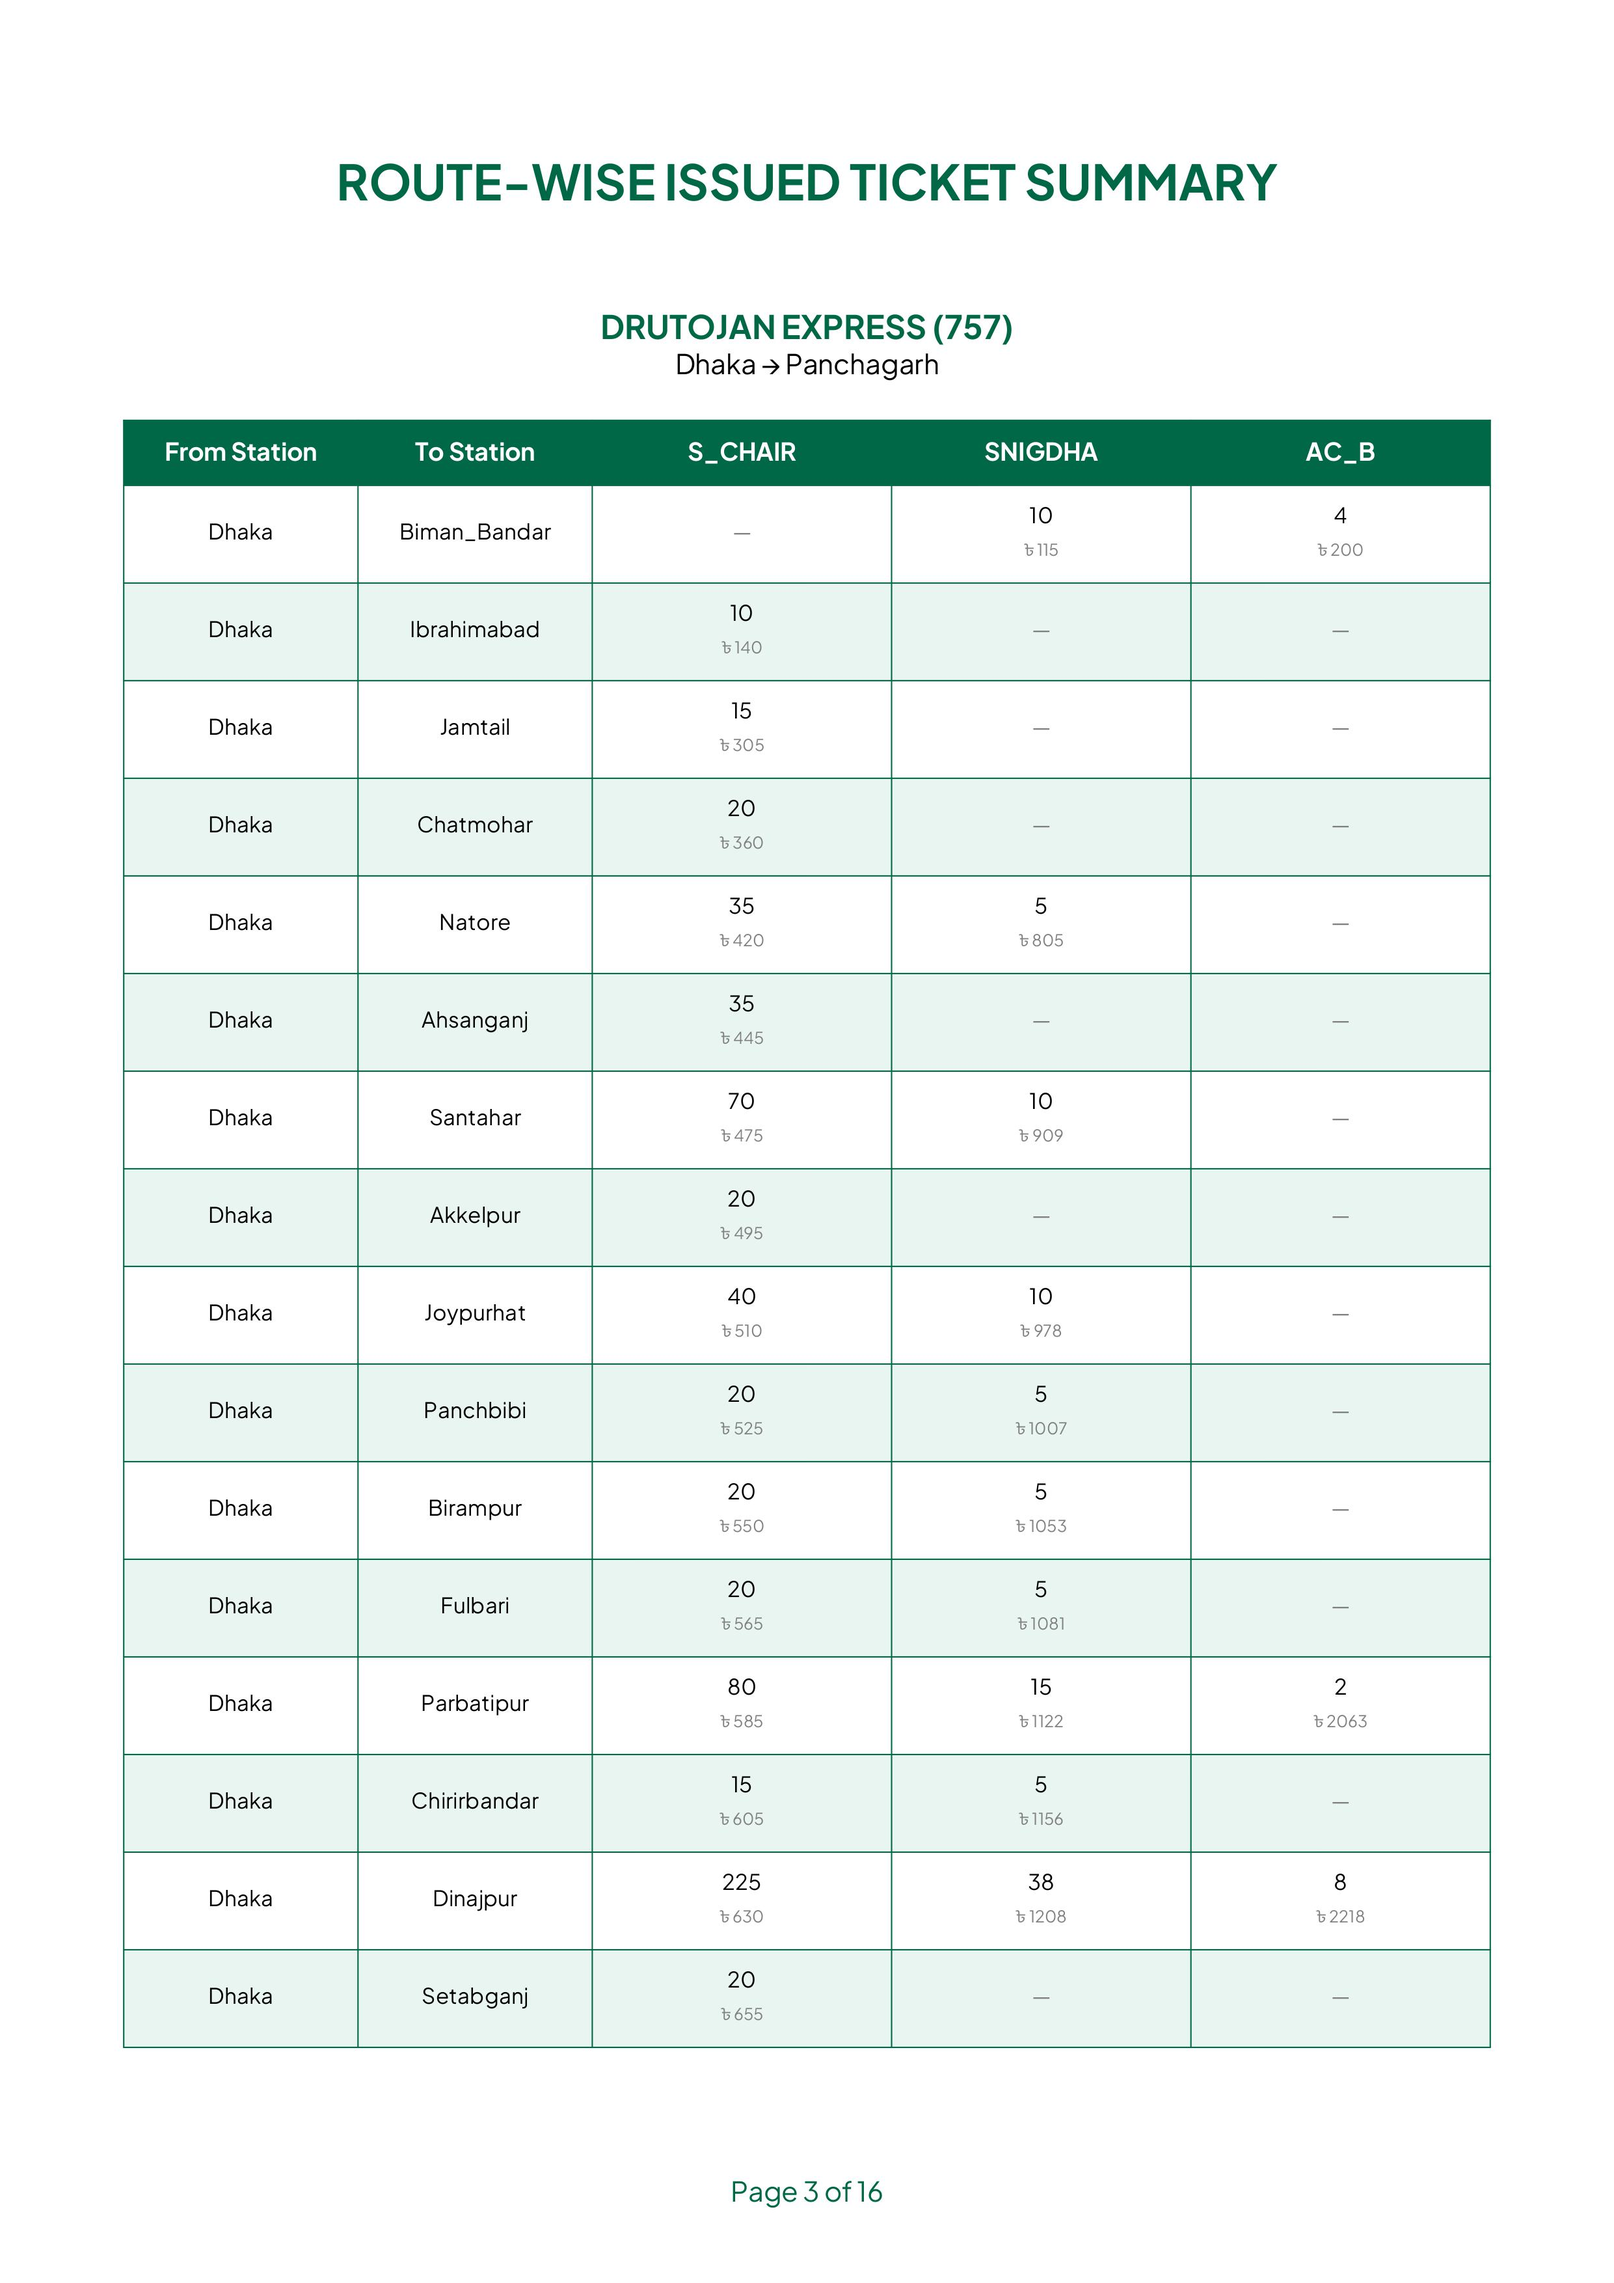
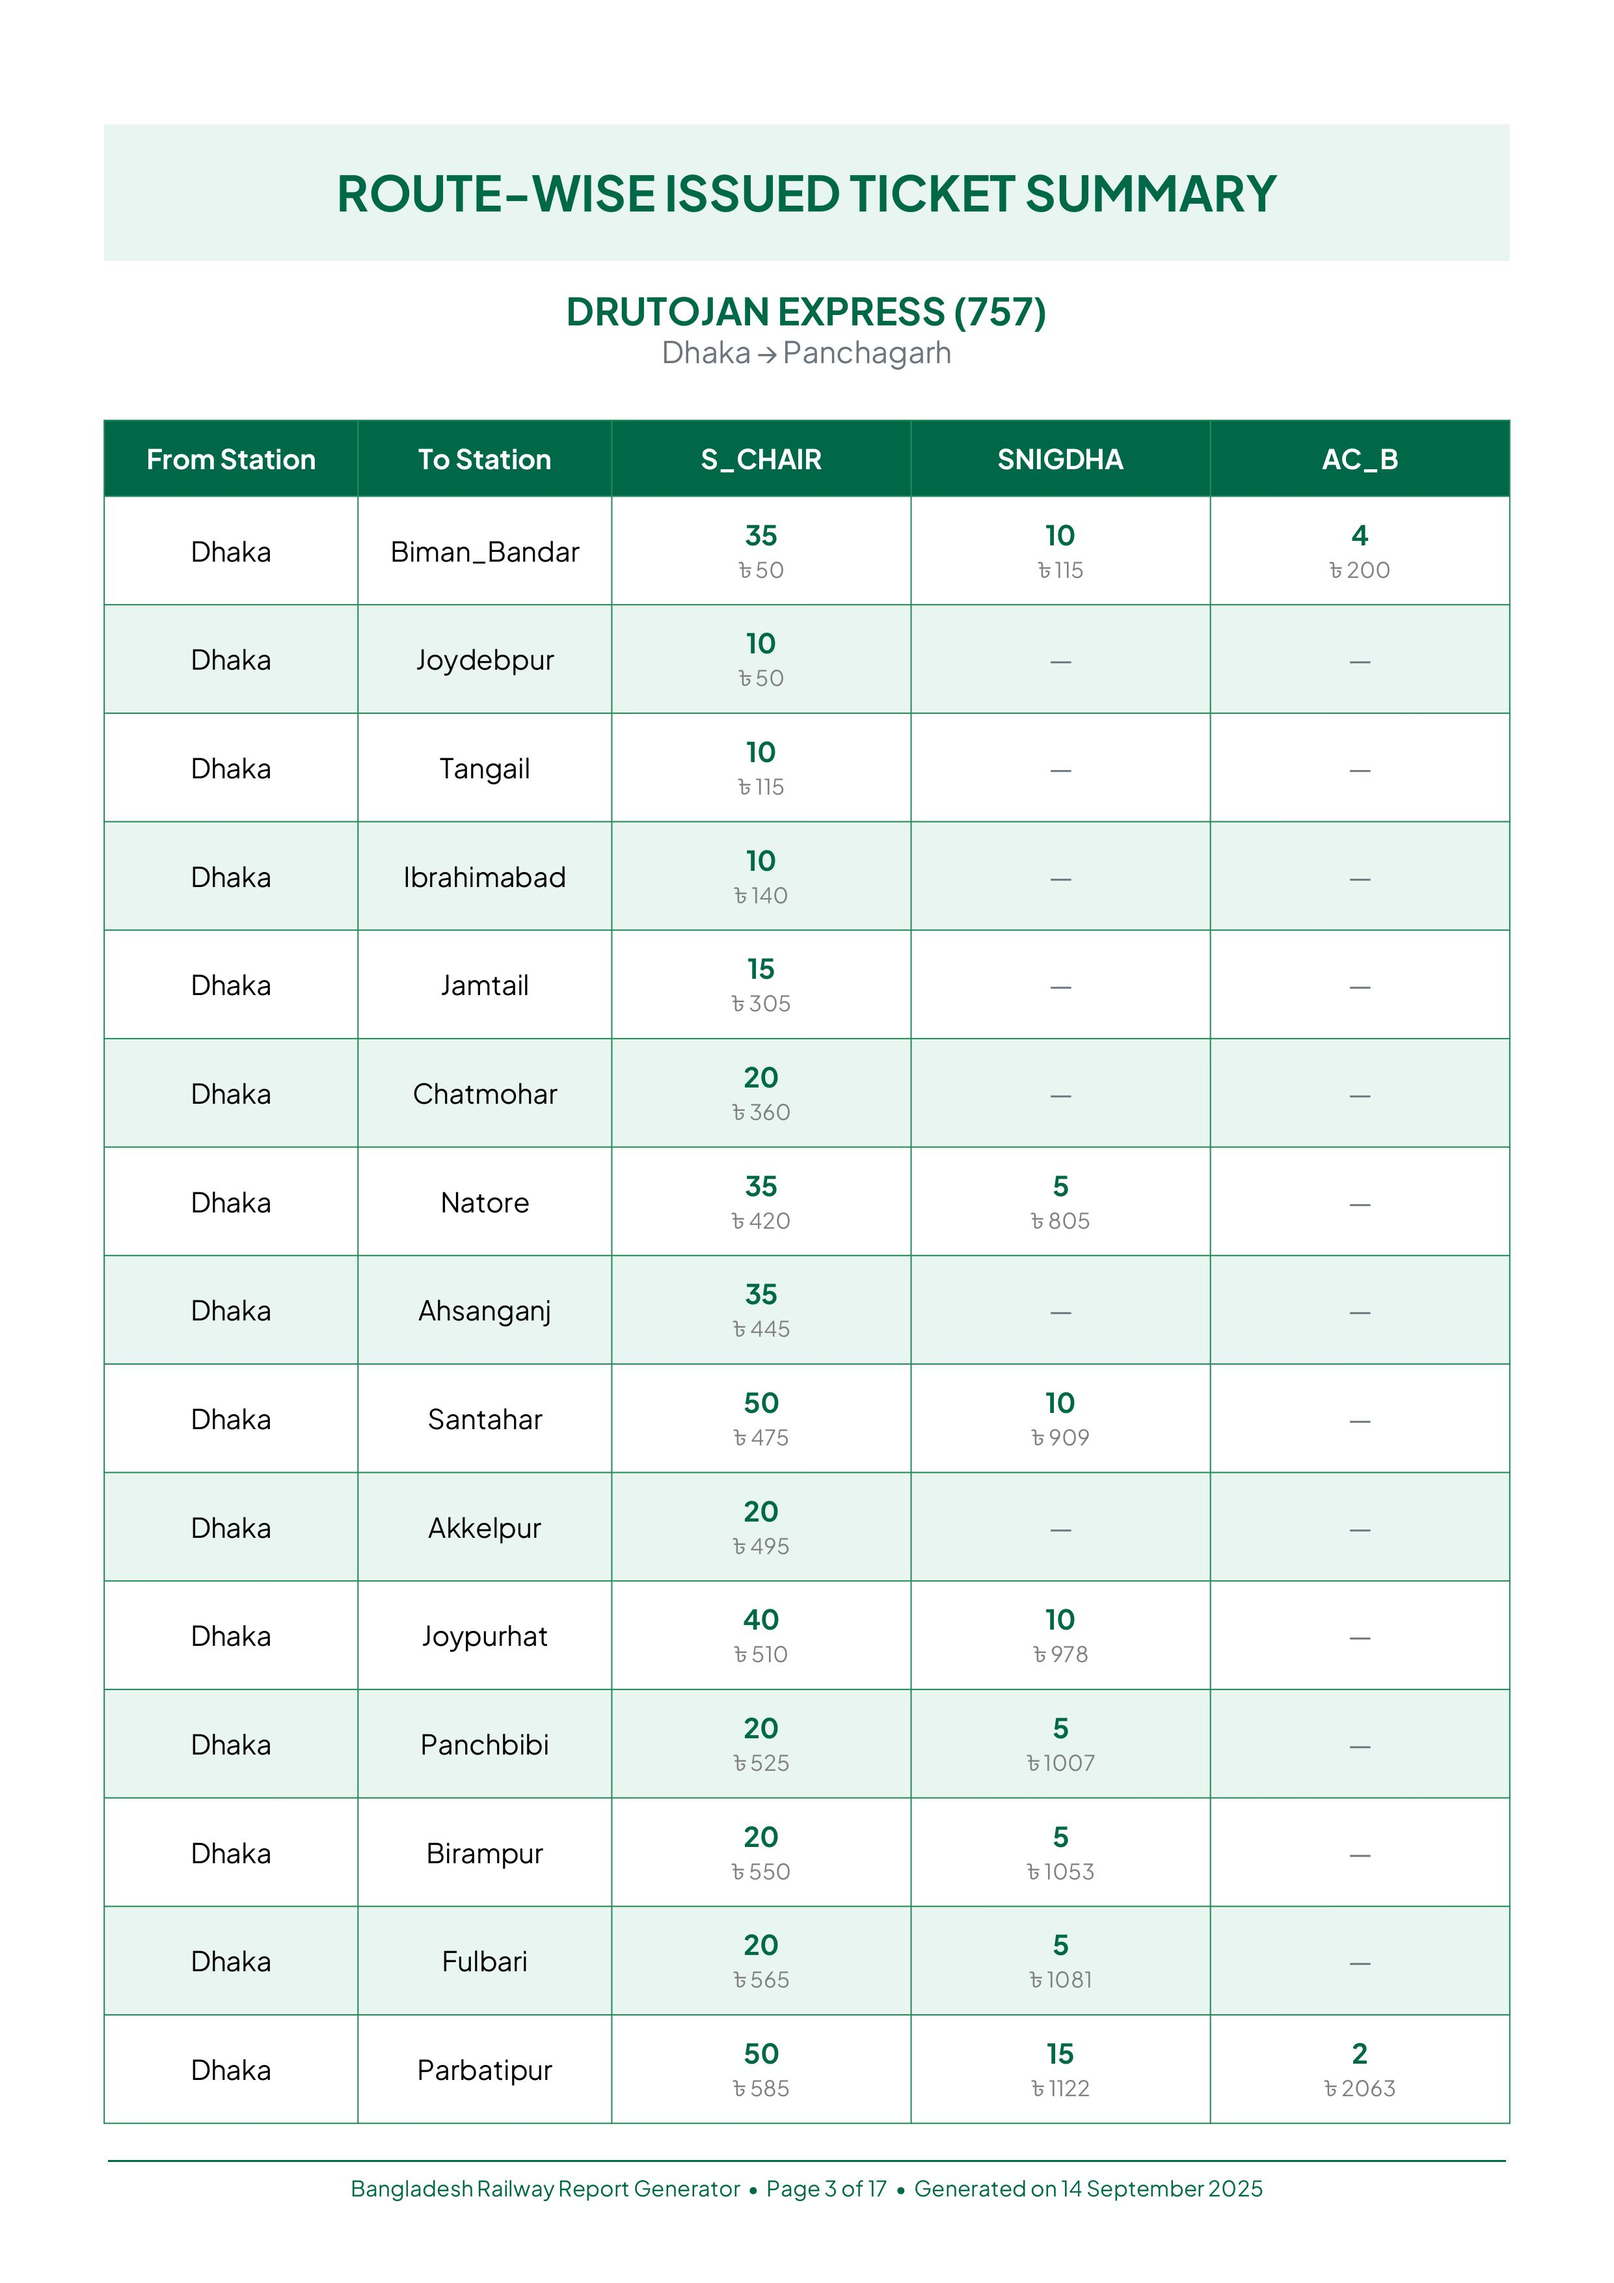
Update report styling and assets for improved UX
Refined PDF report layout in reportGenerator.py with adjusted margins, paddings, and color usage for better readability. Updated link labels and section spacings. Enhanced calendar day styles in styles.css for improved visual feedback. Modified index.html title for clarity. Replaced and updated several image and PDF assets for consistency.

diff --git a/static/css/styles.css b/static/css/styles.css
@@ -759,7 +759,7 @@ input[readonly].error-input {
     box-shadow: inset 0 0 0 1px rgba(0, 103, 71, 0.15);
 }
 
-.calendar-day:hover:not(.disabled):not(.selected):not(.today) {
+.calendar-day:hover:not(.disabled):not(.selected) {
     background-color: #e6f0ea;
     transform: scale(1.05);
 }
@@ -772,10 +772,13 @@ input[readonly].error-input {
 }
 
 .calendar-day.today:not(.selected) {
-    border: 2px solid #006747;
-    background-color: #ffffff;
-    font-weight: bold;
+    background-color: #f1f8f3;
+    border: none;
+    border-radius: 8px;
     color: #006747;
+    cursor: pointer;
+    transition: background-color 0.2s, transform 0.2s;
+    box-shadow: inset 0 0 0 1px rgba(0, 103, 71, 0.15);
 }
 
 .calendar-day.disabled {

diff --git a/templates/index.html b/templates/index.html
@@ -3,7 +3,7 @@
 
 <head>    <meta charset="UTF-8" />
     <meta name="viewport" content="width=device-width, initial-scale=1.0" />
-    <title>Home | Bangladesh Railway Train Report Generator</title>
+    <title>Home | Train Report Generator</title>
     <!-- SEO Meta Tags -->
     <meta name="description"
         content="Generate comprehensive PDF reports for Bangladesh Railway trains. Search trains by route, view detailed train information, and create downloadable reports with schedules and route data.">

diff --git a/reportGenerator.py b/reportGenerator.py
@@ -427,7 +427,7 @@ def generate_pdf_report(issued_matrices: Dict, fare_matrices: Dict, stations: Li
     try:
         doc = SimpleDocTemplate(filename, pagesize=A4, 
                               rightMargin=40, leftMargin=40, 
-                              topMargin=60, bottomMargin=80)
+                              topMargin=40, bottomMargin=40)
         
         # Professional color scheme using website primary color
         primary_green = colors.Color(0x00/255.0, 0x67/255.0, 0x47/255.0)  # Website primary color #006747
@@ -465,8 +465,8 @@ def generate_pdf_report(issued_matrices: Dict, fare_matrices: Dict, stations: Li
             'CustomHeading',
             parent=styles['Heading2'],
             fontSize=16,
-            spaceAfter=18,
-            spaceBefore=25,
+            spaceAfter=10,
+            spaceBefore=10,
             textColor=primary_green,
             fontName=bold_font,
             borderWidth=0,
@@ -518,7 +518,7 @@ def generate_pdf_report(issued_matrices: Dict, fare_matrices: Dict, stations: Li
             fontName=regular_font,
             alignment=1,
             backColor=colors.Color(1.0, 0.98, 0.98),
-            borderPadding=12,
+            borderPadding=8,
             leading=12,
             leftIndent=0,
             rightIndent=0
@@ -534,23 +534,23 @@ def generate_pdf_report(issued_matrices: Dict, fare_matrices: Dict, stations: Li
             ('BACKGROUND', (0, 0), (-1, -1), colors.Color(1.0, 0.98, 0.98)),
             ('BORDER', (0, 0), (-1, -1), 1, colors.Color(0.9, 0.7, 0.7)),
             ('VALIGN', (0, 0), (-1, -1), 'MIDDLE'),
-            ('LEFTPADDING', (0, 0), (-1, -1), 12),
-            ('RIGHTPADDING', (0, 0), (-1, -1), 12),
-            ('TOPPADDING', (0, 0), (-1, -1), 12),
-            ('BOTTOMPADDING', (0, 0), (-1, -1), 12)
+            ('LEFTPADDING', (0, 0), (-1, -1), 8),
+            ('RIGHTPADDING', (0, 0), (-1, -1), 8),
+            ('TOPPADDING', (0, 0), (-1, -1), 8),
+            ('BOTTOMPADDING', (0, 0), (-1, -1), 8)
         ]))
         story.append(disclaimer_table)
         story.append(Spacer(1, 20))
         
         # Enhanced report information section
         github_url = "https://github.com/nishatrhythm/Bangladesh-Railway-Train-Report-Generator"
-        github_link = f'<a href="{github_url}" color="blue">Source Code</a>'
+        github_link = f'<a href="{github_url}" color="blue">GitHub Repository</a>'
 
         website1_url = "https://seat.onrender.com"
-        website1_link = f'<a href="{website1_url}" color="blue">Seat Matrix Tool</a>'
+        website1_link = f'<a href="{website1_url}" color="blue">Train Seat Matrix</a>'
 
         website2_url = "https://trainseat.onrender.com"
-        website2_link = f'<a href="{website2_url}" color="blue">Seat Availability Tool</a>'
+        website2_link = f'<a href="{website2_url}" color="blue">Train Seat Availability</a>'
 
         config_data = [
             ["Train Model", config['train_model']],
@@ -560,8 +560,8 @@ def generate_pdf_report(issued_matrices: Dict, fare_matrices: Dict, stations: Li
             ["Total Stations", str(len(stations))],
             ["Report Generated", datetime.now(pytz.timezone('Asia/Dhaka')).strftime("%d %B %Y  |  %H:%M:%S")],
             ["Source Code", github_link],
-            ["Utility Portal 1", website1_link],
-            ["Utility Portal 2", website2_link]
+            ["Utility Website 1", website1_link],
+            ["Utility Website 2", website2_link]
         ]
         
         config_table_data = []
@@ -591,11 +591,11 @@ def generate_pdf_report(issued_matrices: Dict, fare_matrices: Dict, stations: Li
         ]))
         
         story.append(config_table)
-        story.append(Spacer(1, 35))
+        story.append(Spacer(1, 30))
         
         # Enhanced stations section
         story.append(Paragraph("TRAIN ROUTE STATIONS", heading_style))
-        story.append(Spacer(1, 15))
+        story.append(Spacer(1, 10))
         
         stations_data = []
         cols = 3
@@ -798,9 +798,9 @@ def generate_pdf_report(issued_matrices: Dict, fare_matrices: Dict, stations: Li
                                 fare = route_summary[from_station][to_station][seat_type]["fare"]
                                 if count > 0:
                                     if use_taka_symbol:
-                                        count_text = f'<font size="10" color="black" face="{bold_font}">{count}</font><br/><font size="8" color="gray" face="{bengali_font}">৳</font><font size="8" color="gray" face="{regular_font}"> {fare:.0f}</font>'
+                                        count_text = f'<font size="10" color="#006747" face="{bold_font}">{count}</font><br/><font size="8" color="gray" face="{bengali_font}">৳</font><font size="8" color="gray" face="{regular_font}"> {fare:.0f}</font>'
                                     else:
-                                        count_text = f'<font size="10" color="black" face="{bold_font}">{count}</font><br/><font size="8" color="gray" face="{regular_font}">BDT {fare:.0f}</font>'
+                                        count_text = f'<font size="10" color="#006747" face="{bold_font}">{count}</font><br/><font size="8" color="gray" face="{regular_font}">BDT {fare:.0f}</font>'
                                     
                                     count_style = ParagraphStyle('RouteCountStyle',
                                                             parent=styles['Normal'],
